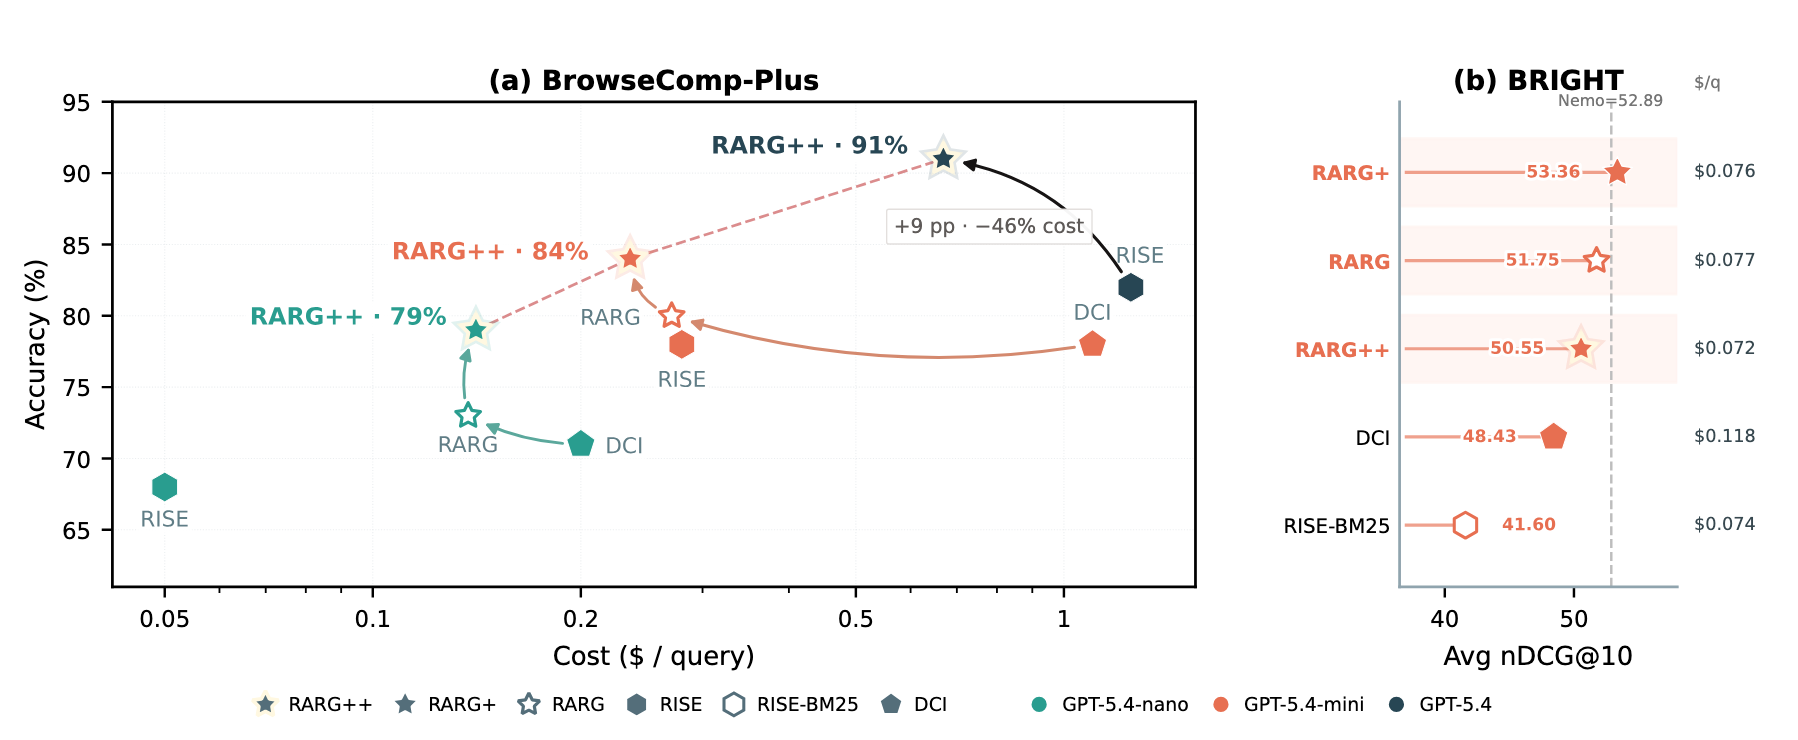
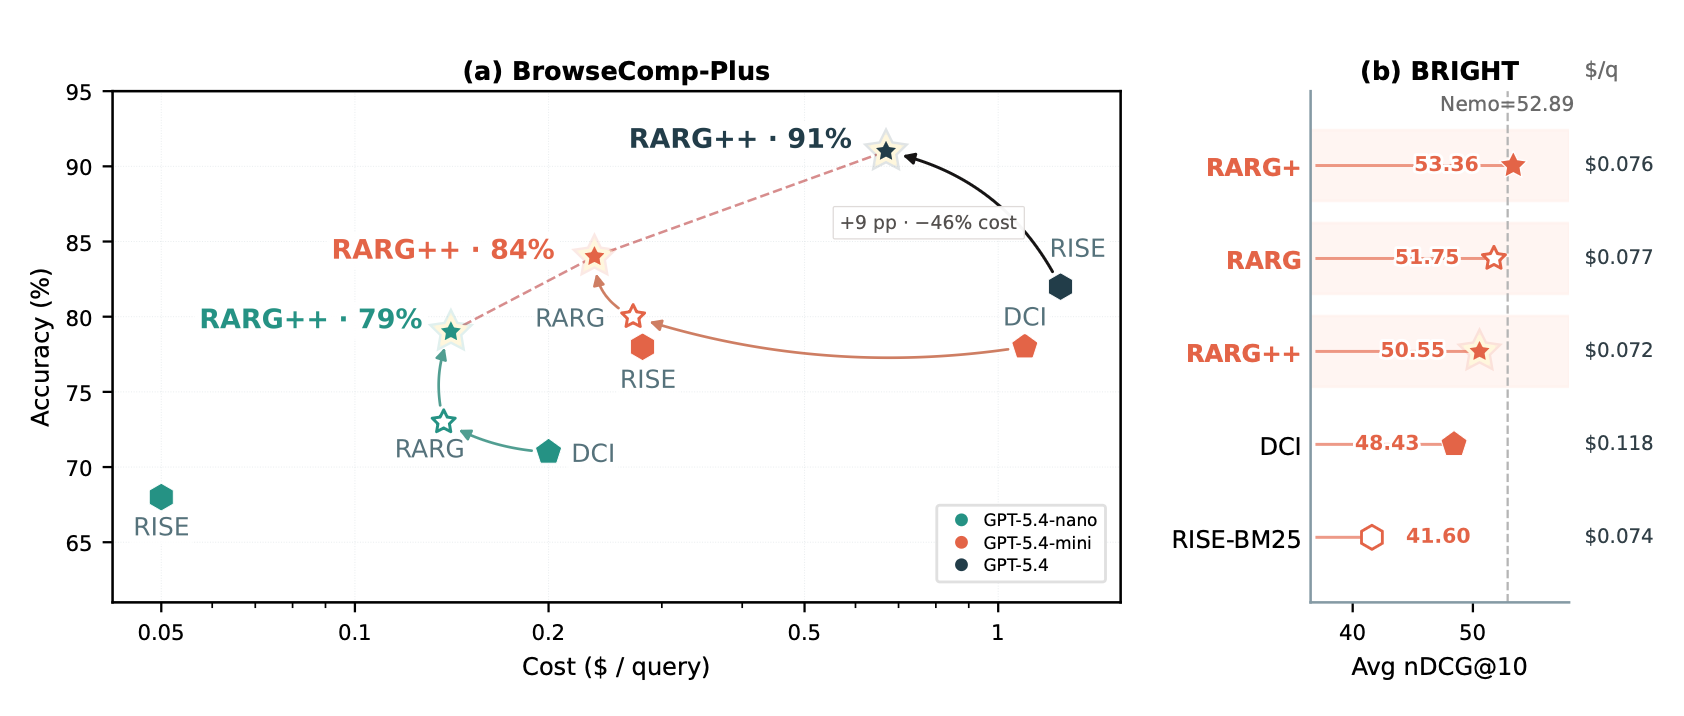
docs: re-upload cost.png and move it to top of README with caption

diff --git a/README.md b/README.md
@@ -2,6 +2,11 @@
 
 Official code for the paper **"A New Role for Relevance: Guiding Corpus Interaction in Agentic Search"**.
 
+<p align="center">
+<img src="cost.png" alt="Accuracy/nDCG@10 versus interaction cost" width="600">
+</p>
+<p align="center"><b>Accuracy/nDCG@10 versus interaction cost (average tool calls) on BrowseComp-Plus and BRIGHT. By turning relevance into an execution prior over rg exploration, RARG advances the accuracy--efficiency frontier over retrieval-based and direct-interaction agents.</b></p>
+
 ## About the paper
 
 **Motivation.** Search agents use relevance in two ways, and both fall short. Top-$k$ retrieval agents rank the corpus and feed the model a fixed set of documents or snippets — this tells the agent *which* documents may matter, but not where the decisive evidence lies, and a single ranked view cannot localize, connect, or verify clues across documents. Direct Corpus Interaction (DCI) instead lets the agent explore raw documents with terminal tools like `grep`, which is far more fine-grained — but it scans blindly, treating every location as equally promising, so useful clues surface late and the agent burns many turns before converging. Our key observation: **relevance should guide the interaction itself, not merely select its inputs.**
@@ -13,10 +18,6 @@ Official code for the paper **"A New Role for Relevance: Guiding Corpus Interact
 - **RARG++** — Additionally *reranks* a wider pool of `rg` matches by combining the global query with the local search intent, letting locally informative excerpts — including those in lower-ranked documents — compete for the model's limited observation budget.
 
 Together, the three levels decide where interaction begins, which documents `rg` visits first, and which local matches reach the model — helping the agent reach evidence earlier and converge with fewer wasted steps, while keeping DCI's fine-grained interaction.
-
-<p align="center">
-<img src="cost.png" alt="BC+ cost" width="600">
-</p>
 
 **Results.** On BrowseComp-Plus (100 queries), RARG++ reaches 84% accuracy vs. 78% for RISE/DCI (GPT-5.4-mini) with far fewer tool calls; on 4 subsets used by DCI in BRIGHT, RARG+ achieves 53.36 avg nDCG@10, surpassing DCI, RISE, and NeMo.
 
